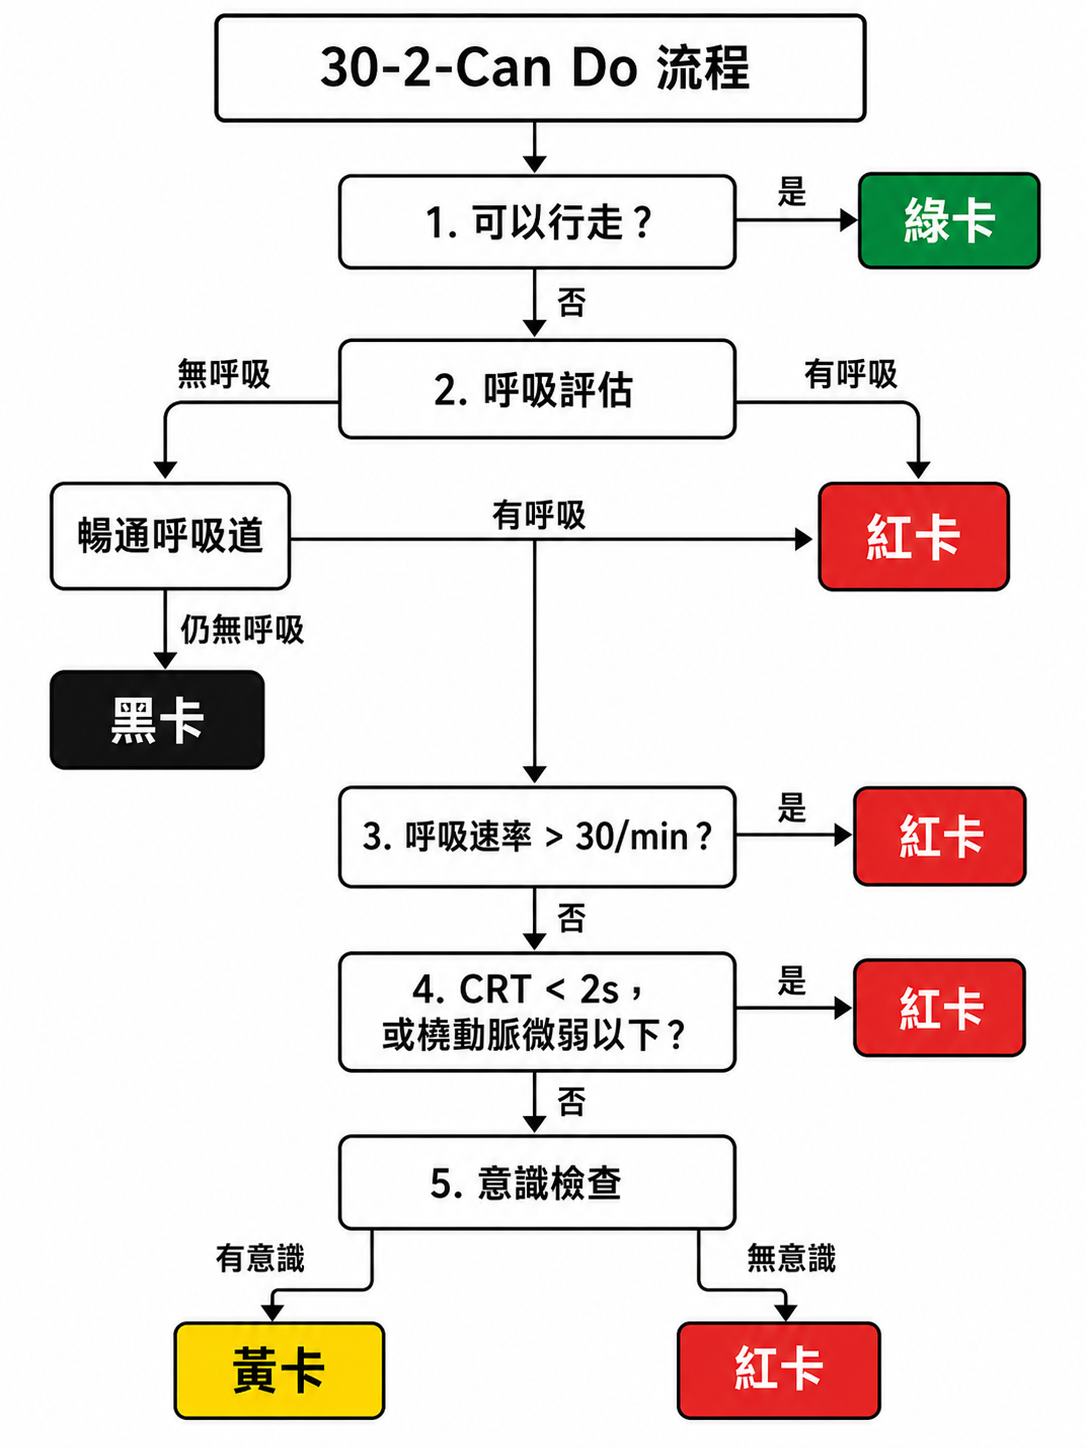
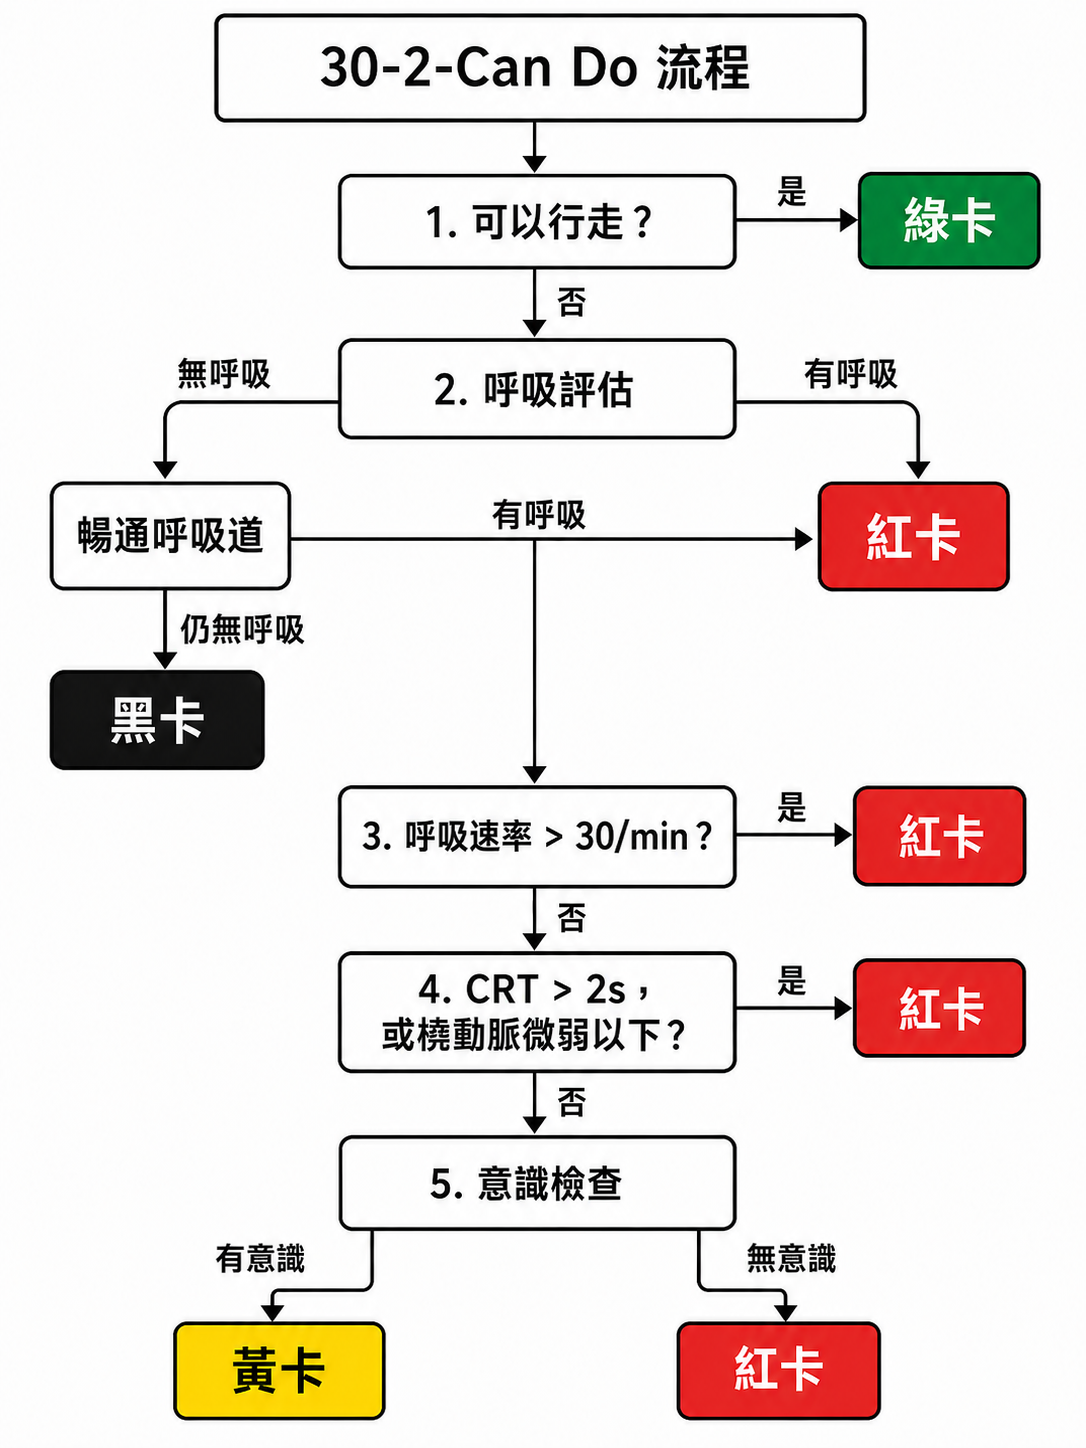
fix: 修正檢傷 CRT 判斷標準與止血帶轉換適用區域
CRT 應為 >2s 才判定紅卡；止血帶轉換適用於暖區或冷區，非熱區。

diff --git a/docs/chapters/04-massive-bleeding.md b/docs/chapters/04-massive-bleeding.md
@@ -40,7 +40,7 @@ tags: [大量出血, 止血帶, 傷口填塞, 骨盆骨折, PACE原則]
 - 大腿打止血帶：口袋東西先移除，並用手背確認生殖器未被綁到
 
 **止血帶轉換(conversion) /轉移(Relocation)**
-- **僅限熱區，且條件許可**
+- **僅限暖區或冷區，且條件許可**
 - 2026 TCCC 指引修正，在 2 小時內可視狀況，由第一線人員直接處置
 - 若出血可被加壓敷料控制，可轉換為加壓敷料
 - 轉換時不可同時放掉兩條止血帶，需交替操作

diff --git a/docs/chapters/03-triage.md b/docs/chapters/03-triage.md
@@ -42,7 +42,7 @@ tags: [檢傷分類, START系統, 30-2-Can Do, 大量傷患]
    - 有呼吸 → 紅卡
    - 無呼吸 → 黑卡
 3. **呼吸速率 > 30/min** → 紅卡
-4. **CRT < 2s，或橈動脈微弱以下** → 紅卡
+4. **CRT > 2s，或橈動脈微弱以下** → 紅卡
 5. **意識檢查**
    - 有意識 → 黃卡
    - 無意識 → 紅卡
